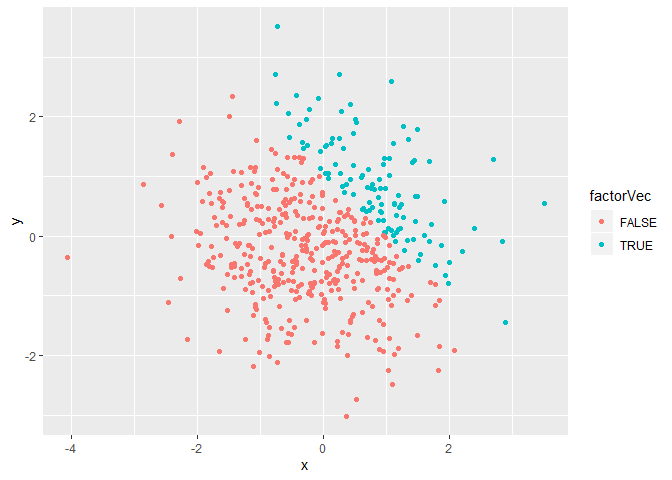
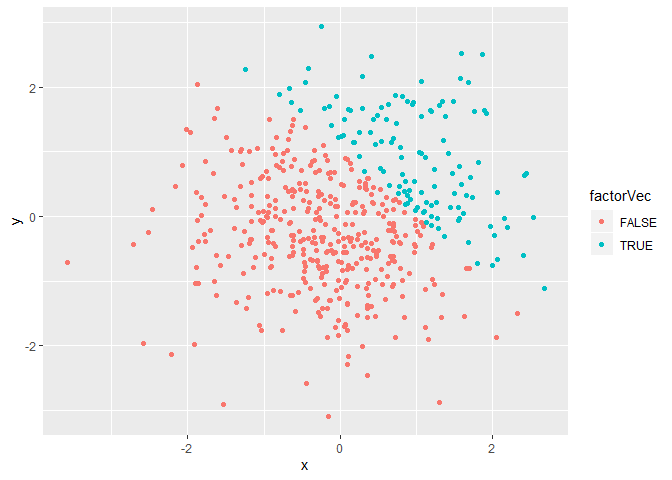
Minor modifacation in Problem 1-3

diff --git a/p8105_hw1_wk2343_Answersheet.md b/p8105_hw1_wk2343_Answersheet.md
@@ -49,14 +49,14 @@ p1_df = tibble(
 mean( pull(p1_df, randomsample) )
 ```
 
-    ## [1] -0.2414571
+    ## [1] -0.7296151
 
 ``` r
 #for logical vector
 mean( pull(p1_df, logical) )
 ```
 
-    ## [1] 0.125
+    ## [1] 0.25
 
 ``` r
 #for character vector length 8
@@ -85,32 +85,30 @@ calculation.
 
 ``` r
 #logical vector
-mean( as.numeric( pull(p1_df, logical) ) )
+P1_logicaltonumeric = as.numeric( pull(p1_df, logical) ) 
 #character vector
-mean( as.numeric( pull(p1_df, character) ) )
+P1_charactertonumeric = as.numeric( pull(p1_df, character) ) 
 ```
 
-    ## Warning in mean(as.numeric(pull(p1_df, character))): NAs introduced by
-    ## coercion
+    ## Warning: NAs introduced by coercion
 
 ``` r
 #factor vector
-mean( as.numeric( pull(p1_df, factor) ) )
+P1_factortonumeric = as.numeric( pull(p1_df, factor) )
 ```
 
 Mean function is built for arithmetic operations, so typically the iuput
 data should be numeric. Logical vectors also works cause it
 automatically assign 1 to TRUE and 0 to FALSE.
 
-After numeric transformation, the result of logical vector remains the
-same, indicationg the fraction of “TRUE” out of all items in it.
+After numeric transformation, logical vector is transformed to 0
+representing false, and 1 representing true.
 
-The result of character vector is still NA, since there’s no way to set
-characters as digits.
+The result of character vector transformation is still NA, since there’s
+no way to set characters as digits.
 
 The result of factor vector is done by transforming all categories
-indicator into numbers. Therefore, we’re actually calculating the mean
-of two 1s, two 2s and four 3s.
+indicator into numbers.
 
 ## 4\. Data class transformation
 
@@ -123,7 +121,8 @@ p1_df_convert_numeric = pull(p1_df, randomsample) * as.numeric( pull(p1_df, logi
 p1_df_convert_numeric
 ```
 
-    ## [1] 0.000000 0.000000 0.000000 1.127198 0.000000 0.000000 0.000000 0.000000
+    ## [1] 0.0000000 0.0000000 0.2620240 0.0000000 0.0000000 0.0000000 0.6426566
+    ## [8] 0.0000000
 
 After numeric transformation, the logical vector is transformed to
 either 1 or 0. While those \>0 elements in random sample stays the same,
@@ -152,8 +151,8 @@ p1_df_convert_numericandfactor = pull(p1_df, randomsample) * as.numeric( factor(
 p1_df_convert_numericandfactor
 ```
 
-    ## [1] -0.05879077 -0.20837536 -0.01585912  2.25439609 -0.37243412 -1.51311059
-    ## [7] -0.32011163 -0.57017328
+    ## [1] -2.67484185 -0.64082451  0.52404799 -1.00515052 -0.46826577 -0.04366341
+    ## [7]  1.28531316 -1.90885538
 
 The pattern of this transformation follows the rule below:
 
@@ -181,8 +180,8 @@ p2_df = tibble(
 ```
 
 The size of the dataset is 5 columns and 500 rows. The mean of x is
--0.0650513. The median of x is -0.0440876. The standard deveation of x
-is 1.0298612. The proportion of cases for which x + y \> 1 is 0.224
+0.0202548. The median of x is 0.0345319. The standard deveation of x is
+0.9935055. The proportion of cases for which x + y \> 1 is 0.242
 
 ## 2\. Scatterplots
 
